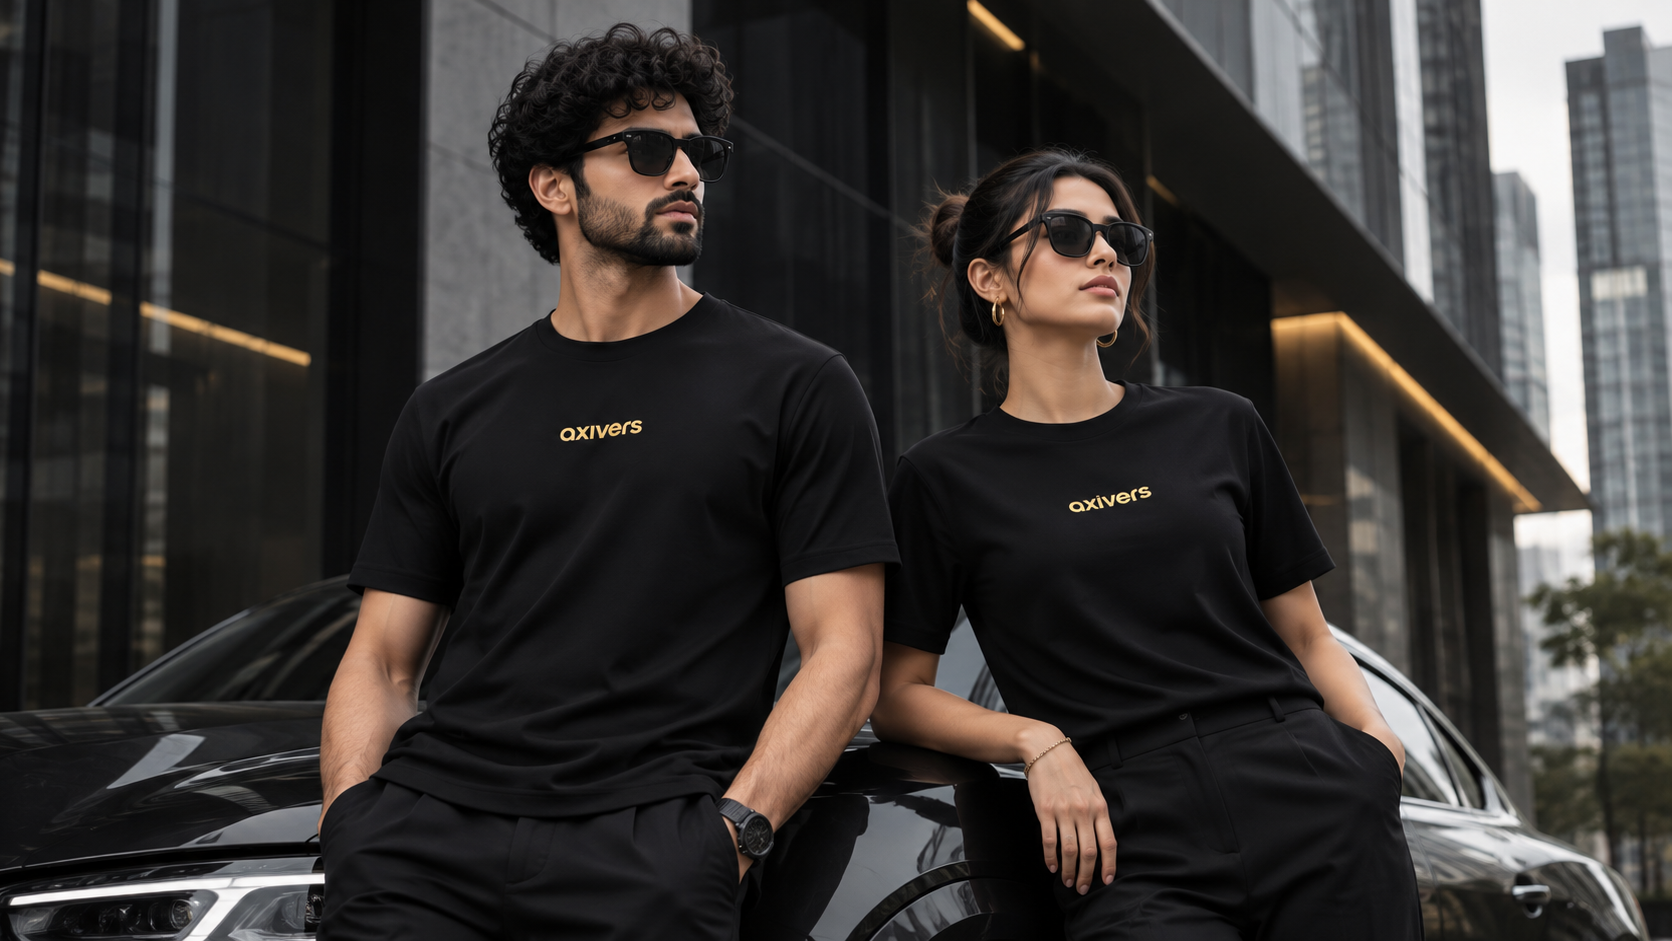
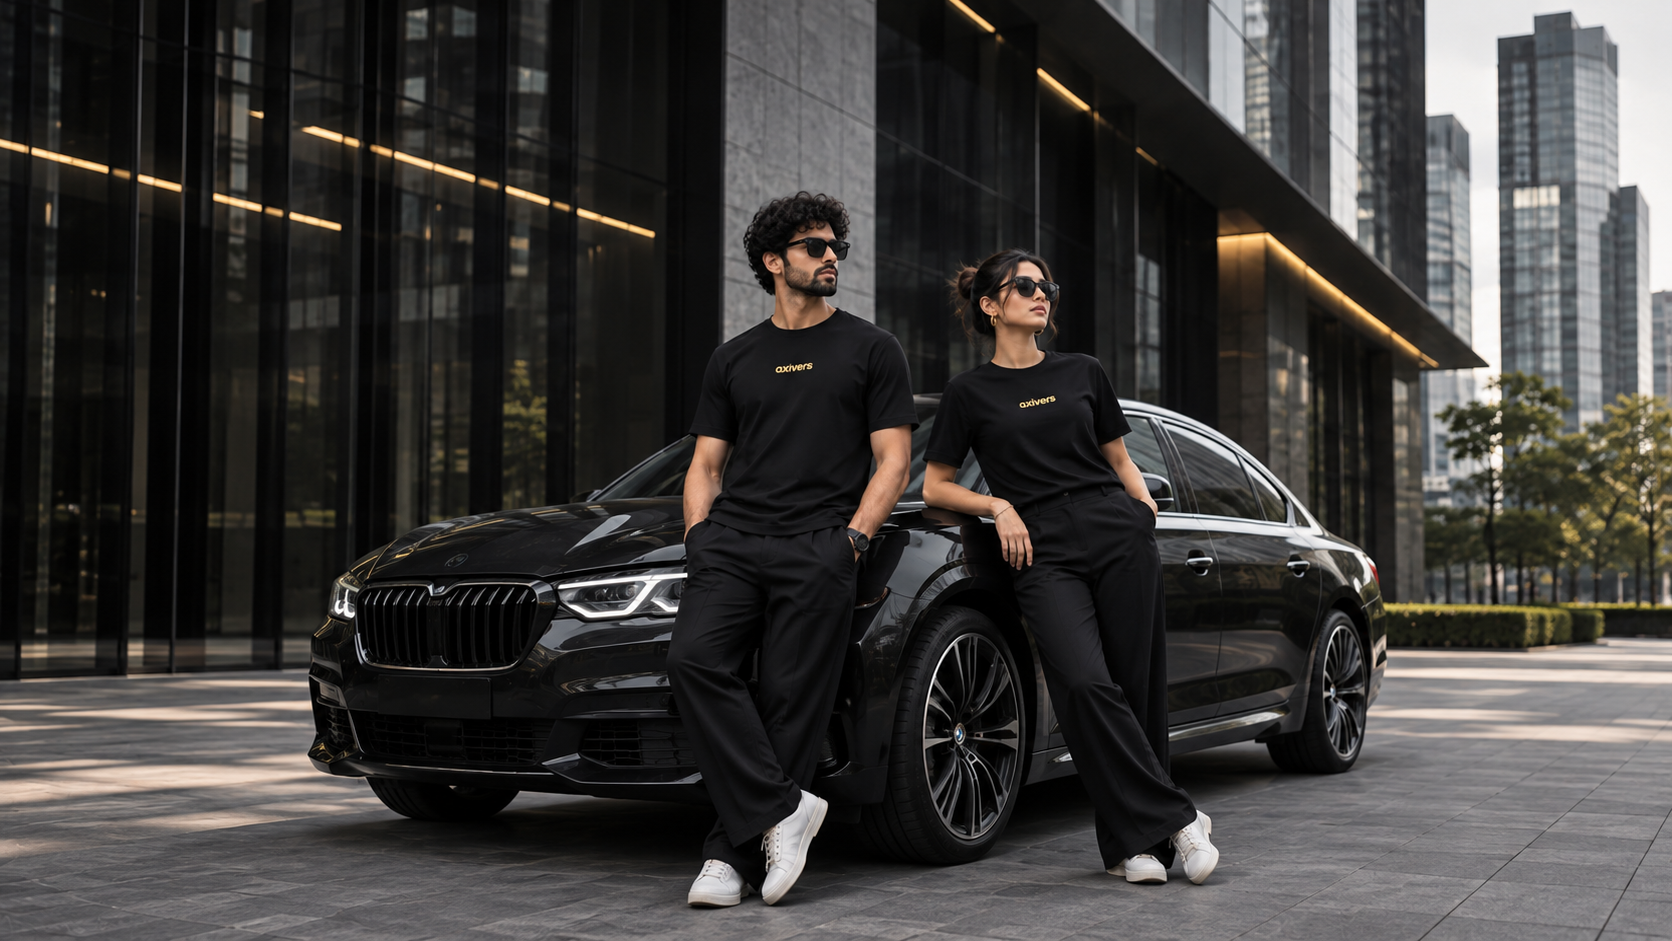
New Hero section images added

diff --git a/app/components/Header.tsx b/app/components/Header.tsx
@@ -5,7 +5,6 @@ import Link from 'next/link';
 import Image from 'next/image';
 import { usePathname } from 'next/navigation';
 import { useCart } from '../context/CartContext';
-import { DEFAULT_STORE_SETTINGS, getStoreSettings, subscribeToStoreSettings } from '@/services/settingsService';
 import { SearchModal } from './SearchModal';
 import { StoreIcon } from './StoreIcon';
 
@@ -22,18 +21,12 @@ export function Header() {
   const pathname = usePathname();
   const { totalCartCount, setIsCartOpen } = useCart();
   const [isSearchOpen, setIsSearchOpen] = useState(false);
-  const [storeSettings, setStoreSettings] = useState(DEFAULT_STORE_SETTINGS);
   const menuRef = useRef<HTMLDialogElement>(null);
 
-  useEffect(() => {
-    getStoreSettings().then(setStoreSettings);
-    return subscribeToStoreSettings(setStoreSettings);
-  }, []);
   useEffect(() => { menuRef.current?.close(); }, [pathname]);
 
   return (
     <>
-      <div className="announcement-bar"><span>{storeSettings.ordersEnabled ? 'Considered essentials. Crafted in Sri Lanka.' : 'A new everyday is coming. Explore our launch preview.'}</span><Link href={storeSettings.ordersEnabled ? '/shipping' : '/contact'}>{storeSettings.ordersEnabled ? 'Delivery information' : 'Stay in touch'}</Link></div>
       <header className="store-header">
         <div className="site-shell header-inner">
           <button className="icon-button mobile-menu-button" aria-label="Open navigation" onClick={() => menuRef.current?.showModal()}><StoreIcon name="menu" /></button>

diff --git a/app/globals.css b/app/globals.css
@@ -258,22 +258,6 @@ body:has(dialog[open]) {
 .text-link:hover {
   opacity: 0.75;
 }
-.announcement-bar {
-  min-height: 47px;
-  background: #000;
-  border-bottom: 1px solid #333;
-  color: #e5e5e5;
-  display: flex;
-  align-items: center;
-  justify-content: space-between;
-  gap: 24px;
-  padding: 9px 16px;
-  font-size: 15px;
-}
-.announcement-bar a {
-  text-underline-offset: 4px;
-}
-
 .store-header {
   position: sticky;
   top: 0;
@@ -401,7 +385,7 @@ body:has(dialog[open]) {
   font-size: 15px;
 }
 
-/* Edge-to-edge campaign, with the reference's 116 / 66 px title scale. */
+/* Display the complete campaign image while preserving its proportions. */
 .campaign-hero {
   position: relative;
   min-height: 630px;
@@ -1463,15 +1447,6 @@ body:has(dialog[open]) {
   }
 }
 @media (max-width: 760px) {
-  .announcement-bar {
-    justify-content: center;
-    min-height: 38px;
-    font-size: 14px;
-    text-align: center;
-  }
-  .announcement-bar a {
-    display: none;
-  }
   .header-inner {
     min-height: 70px;
     gap: 10px;
@@ -1495,9 +1470,6 @@ body:has(dialog[open]) {
   }
   .campaign-shade {
     background: linear-gradient(0deg, #000e, #0008 55%, #0002);
-  }
-  .campaign-photo {
-    object-position: 66% center;
   }
   #main-content .campaign-copy h1 {
     font-size: 66px;
